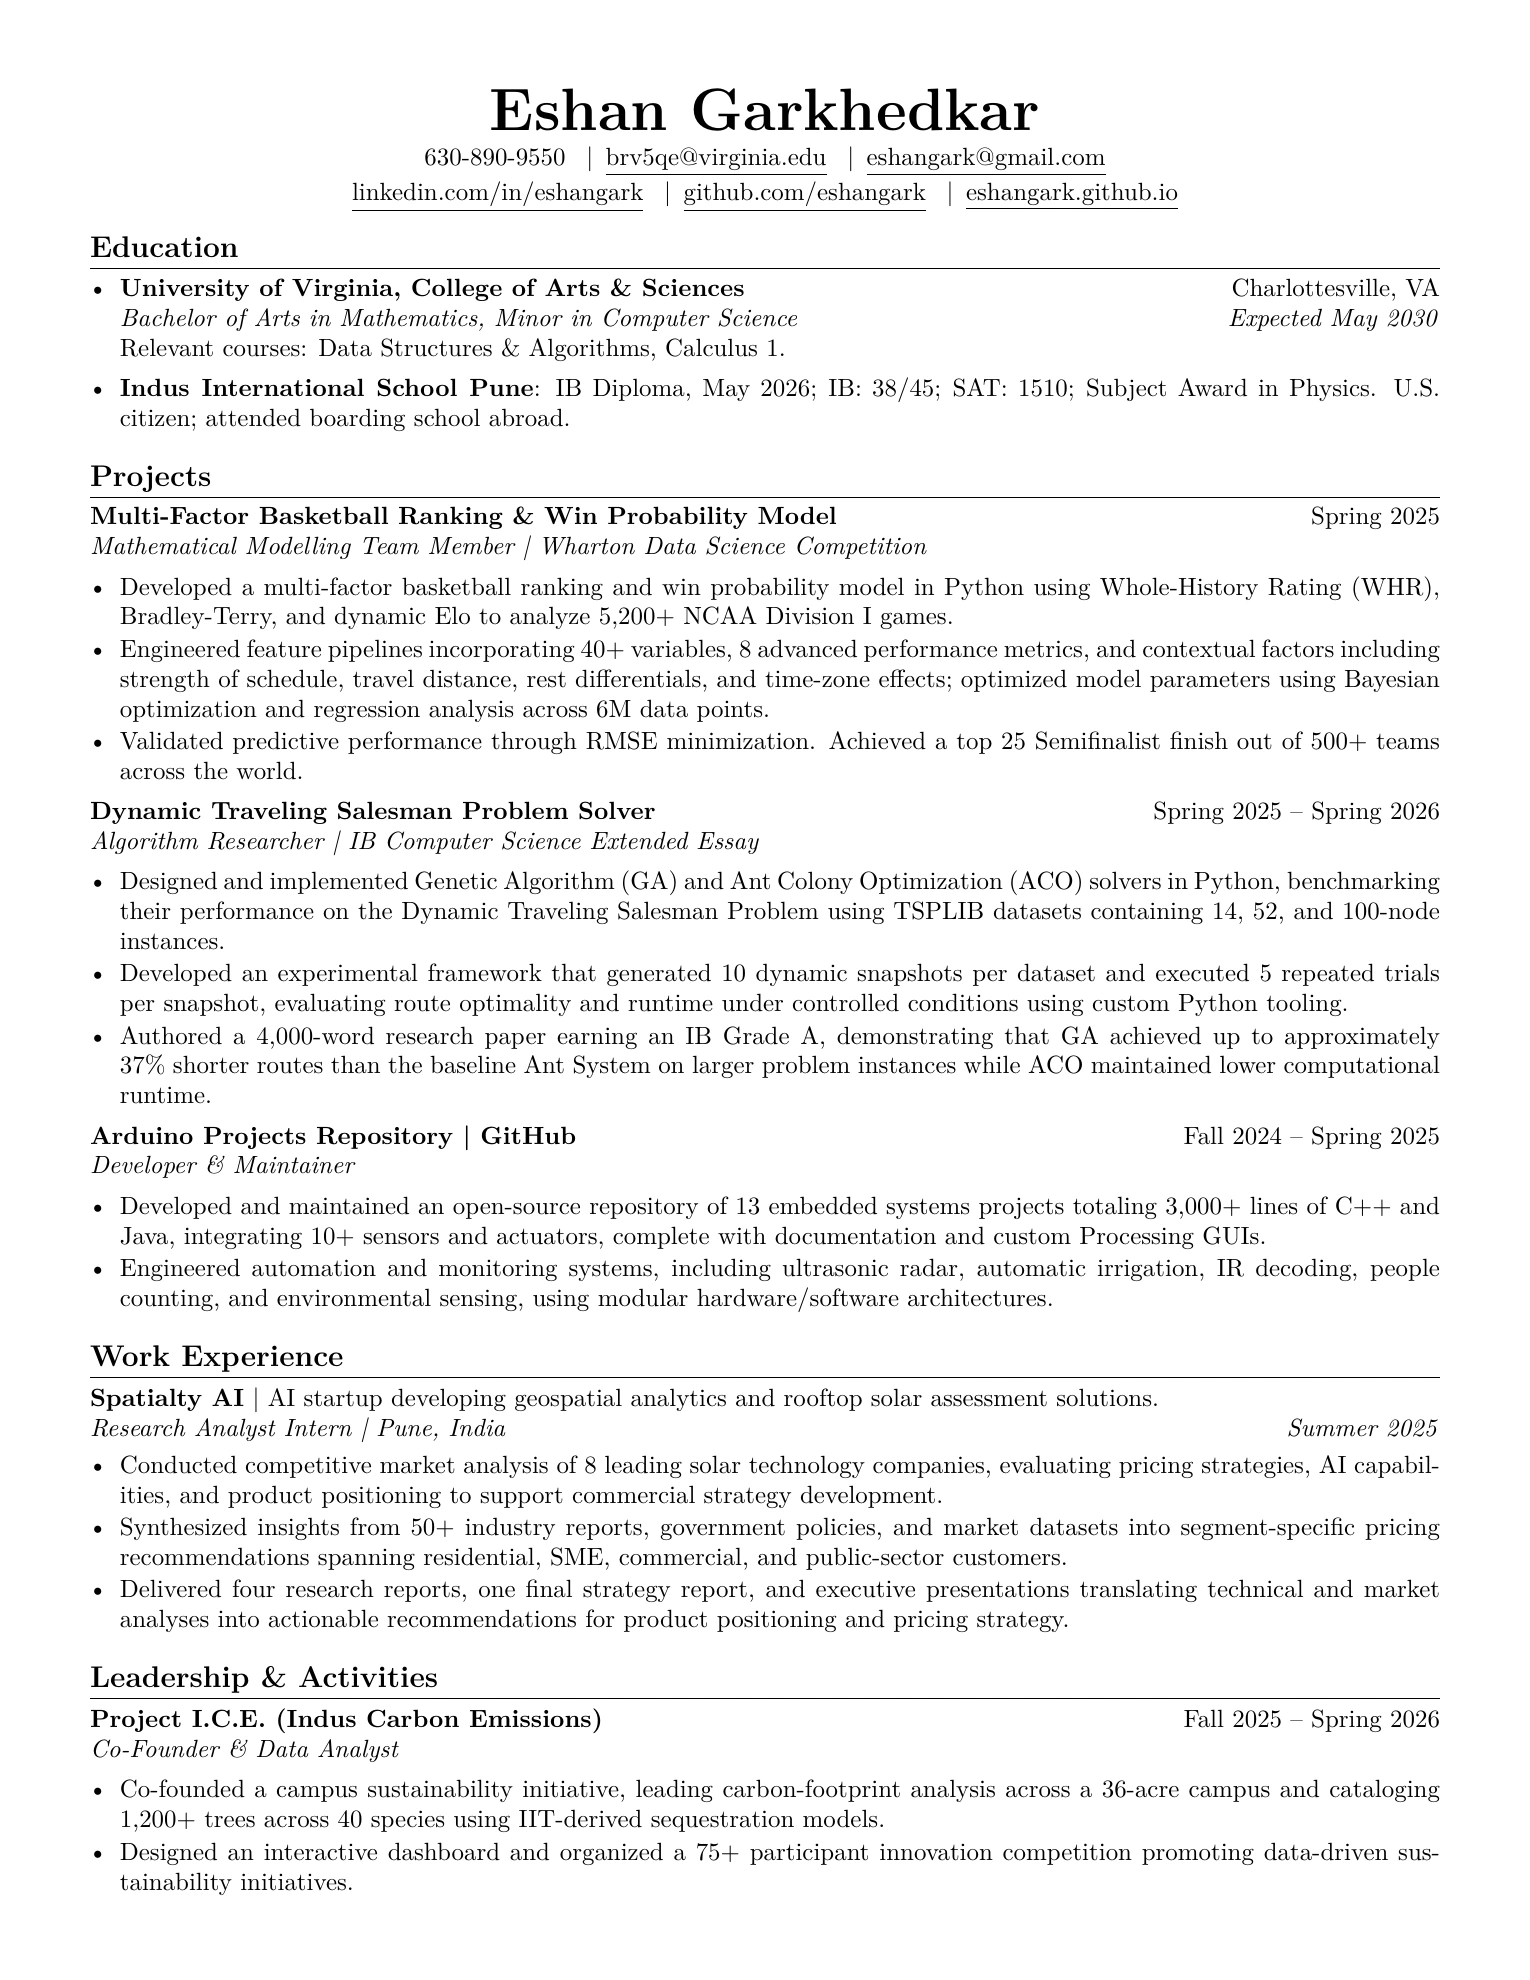
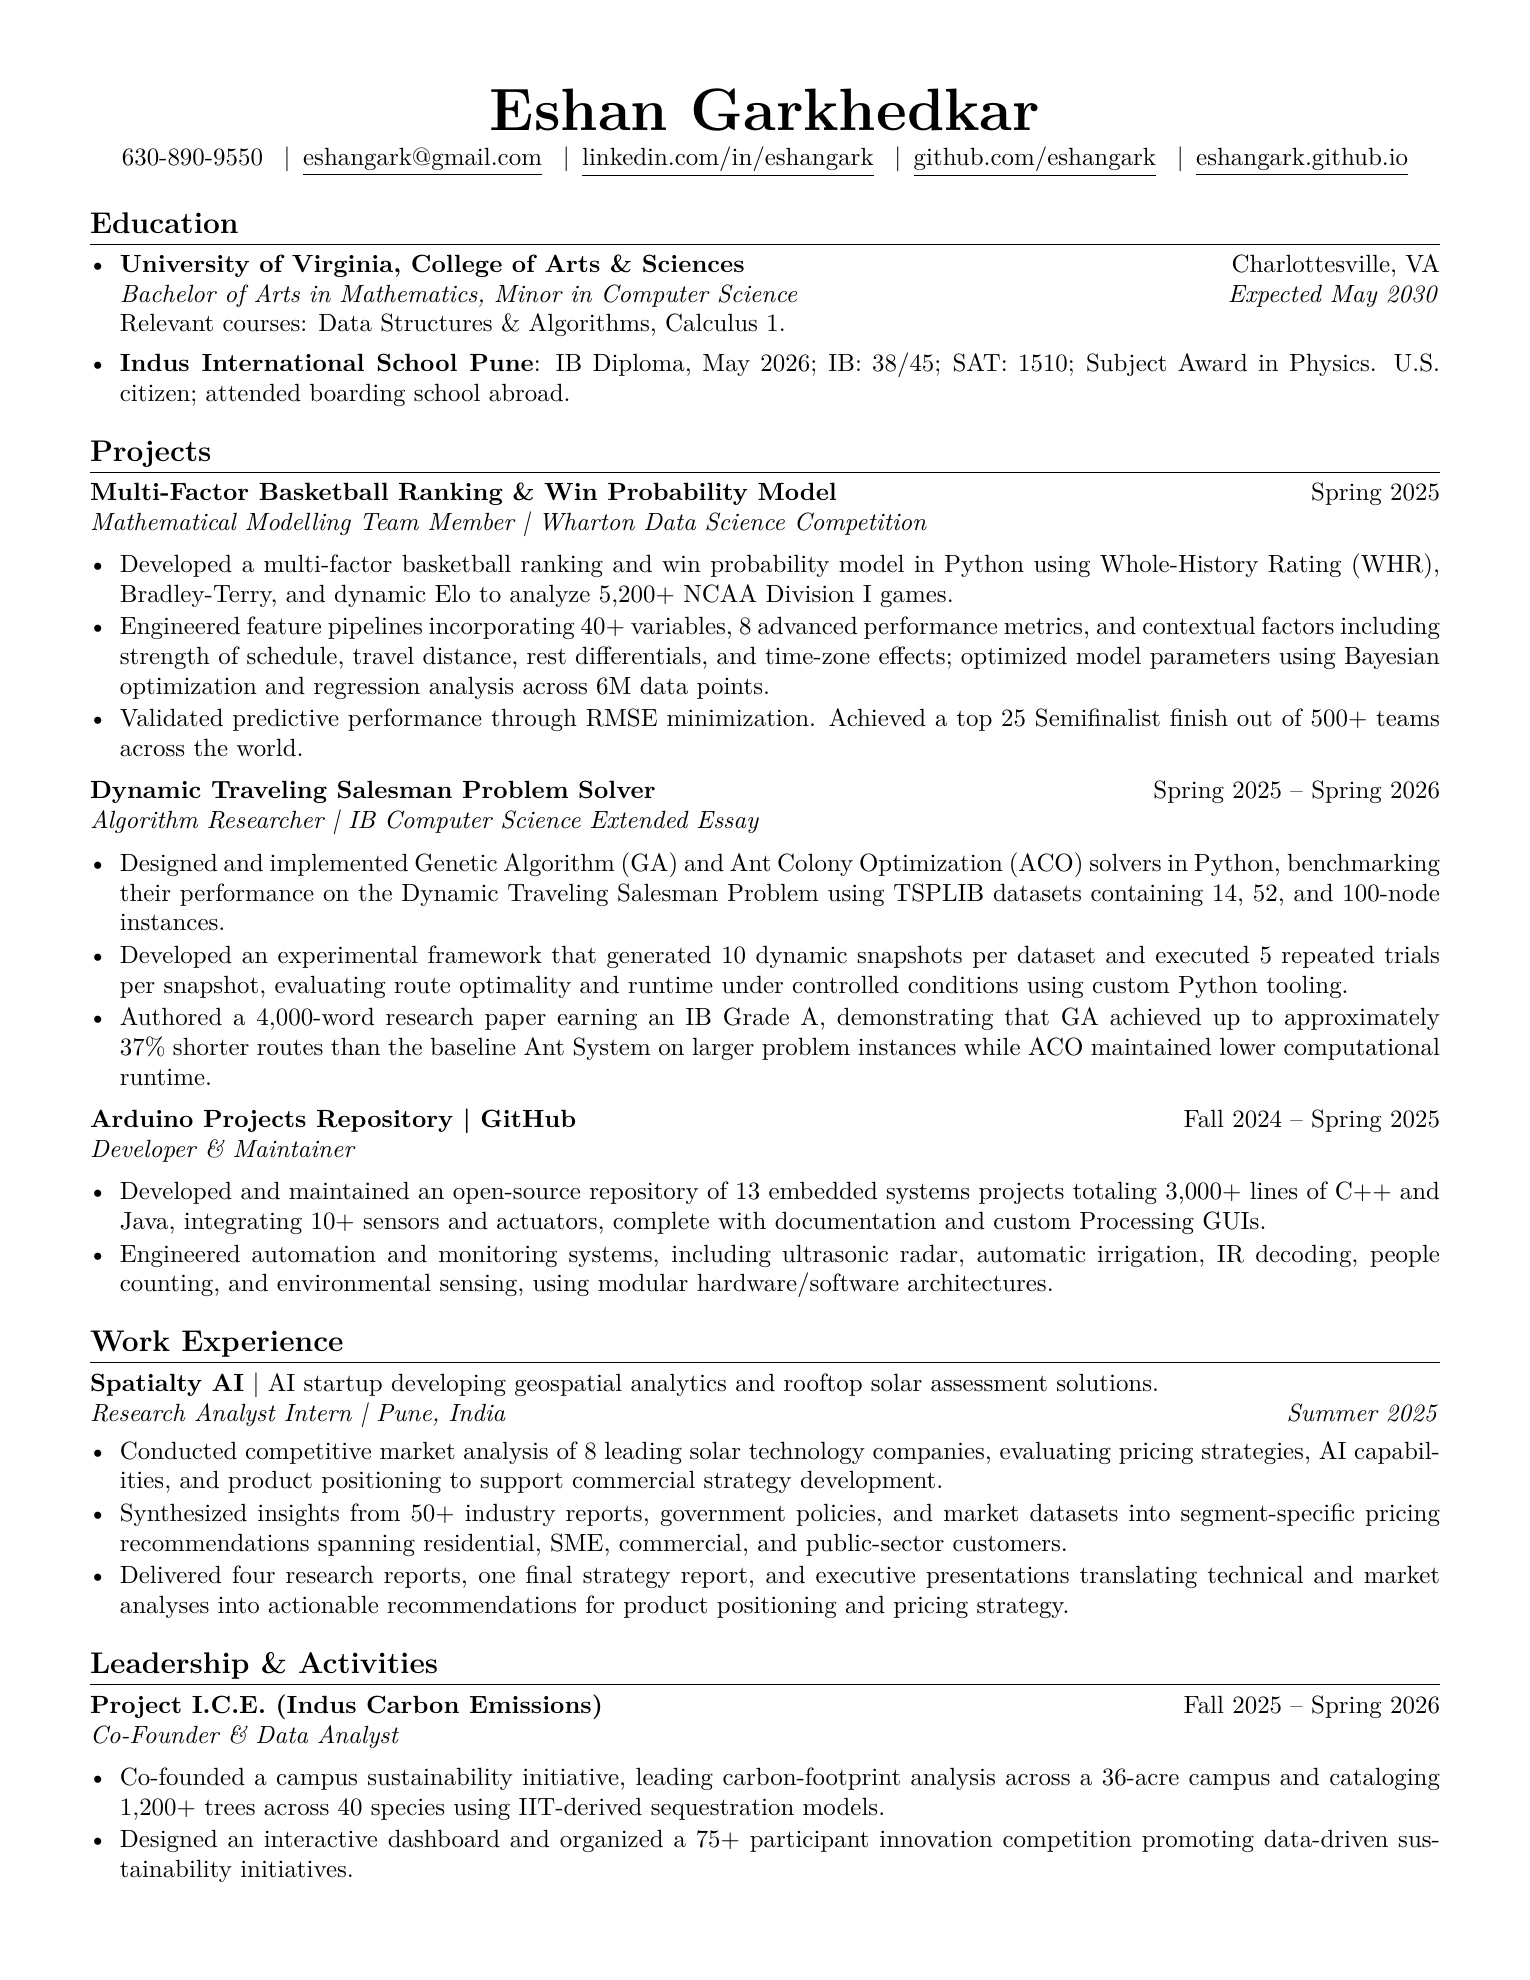
Keep resume contacts on one line and remove UVA email

Changed region(s): [[0.0614, 0.0616, 0.9523, 0.9551], [0.6758, 0.1232, 0.9523, 0.2157], [0.7987, 0.0616, 0.9216, 0.0924]]

diff --git a/index.html b/index.html
@@ -162,11 +162,11 @@
             <p class="eyebrow">Resume</p>
             <h2 id="resume-title">Resume</h2>
             <div class="resume-preview">
-              <img src="assets/resume-preview.webp?v=37baf30fea82" width="1530" height="1980" alt="Eshan Garkhedkar’s resume. Use View PDF below to read the document." loading="lazy">
+              <img src="assets/resume-preview.webp?v=032366deba2c" width="1530" height="1980" alt="Eshan Garkhedkar’s resume. Use View PDF below to read the document." loading="lazy">
             </div>
             <div class="resume-actions">
-              <a class="text-link" href="assets/Eshan_Garkhedkar_Resume.pdf?v=c73e6bd0f384" target="_blank" rel="noopener">View PDF <span aria-hidden="true">↗</span></a>
-              <a class="text-link" href="assets/Eshan_Garkhedkar_Resume.pdf?v=c73e6bd0f384" download>Download PDF <span aria-hidden="true">↓</span></a>
+              <a class="text-link" href="assets/Eshan_Garkhedkar_Resume.pdf?v=aa62a9733d76" target="_blank" rel="noopener">View PDF <span aria-hidden="true">↗</span></a>
+              <a class="text-link" href="assets/Eshan_Garkhedkar_Resume.pdf?v=aa62a9733d76" download>Download PDF <span aria-hidden="true">↓</span></a>
             </div>
           </section>
           <section id="contact" class="panel" aria-labelledby="contact-title" hidden>

diff --git a/resume/main.tex b/resume/main.tex
@@ -17,8 +17,7 @@
 \begin{center}
 {\fontsize{24}{26}\selectfont\bfseries Eshan Garkhedkar}\\[2pt]
 630-890-9550 \enspace|\enspace
-\contact{mailto:brv5qe@virginia.edu}{brv5qe@virginia.edu} \enspace|\enspace
-\contact{mailto:eshangark@gmail.com}{eshangark@gmail.com}\\[2pt]
+\contact{mailto:eshangark@gmail.com}{eshangark@gmail.com} \enspace|\enspace
 \contact{https://www.linkedin.com/in/eshangark/}{linkedin.com/in/eshangark} \enspace|\enspace
 \contact{https://github.com/eshangark}{github.com/eshangark} \enspace|\enspace
 \contact{https://eshangark.github.io/}{eshangark.github.io}
